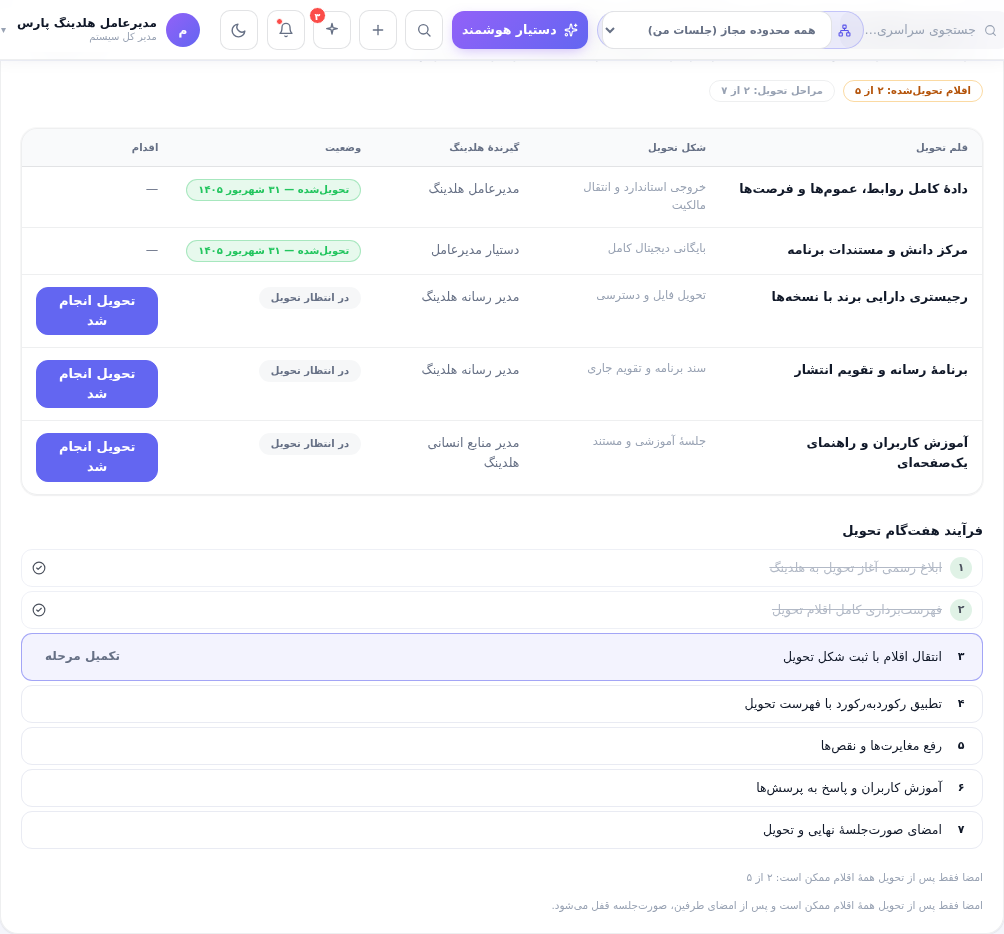
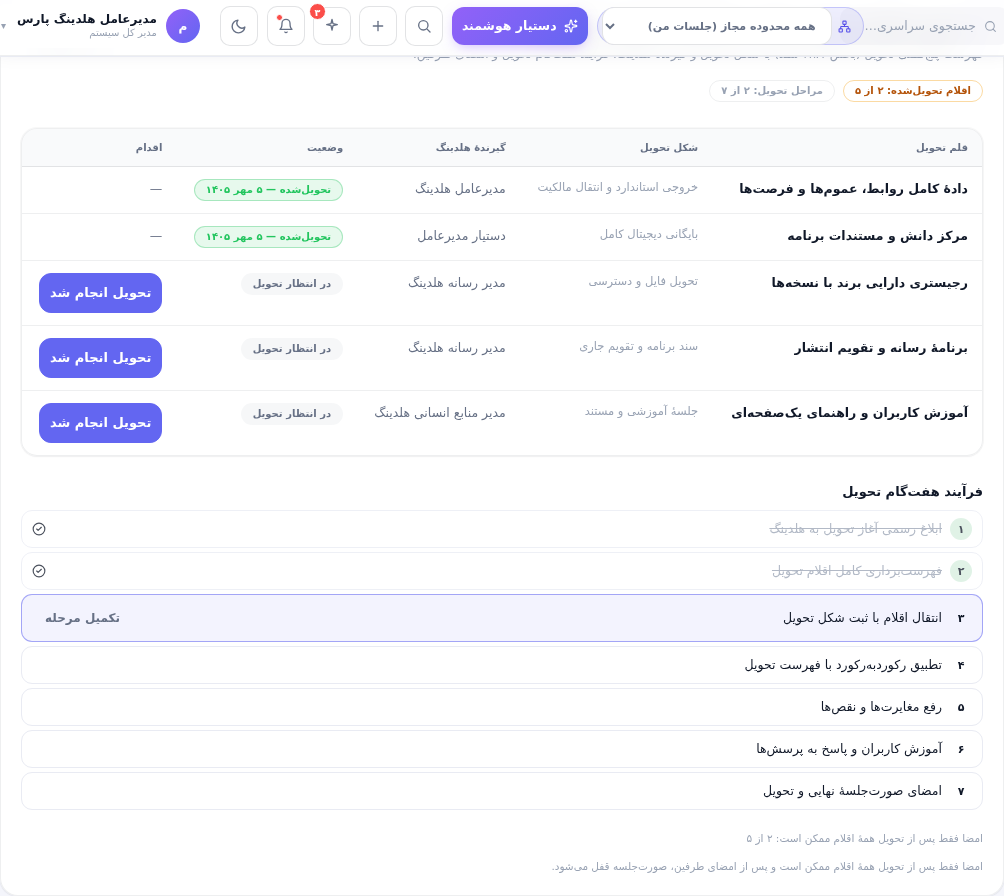
گام ۱۱.۱ — جار کامل فاز ۱۱: bump نسخهٔ 2026.10.05.01 + بازیابی محیط
- bump: DEMO_MOCK_VERSION → 2026.10.05.01 و بازسازی sw/docs
- api-tests: گارد دفاعی برای reconciliation در اجرای دوم روی DB جهشیافته
- preview-server: ۴۰۴ هوشمند مثل Pages/Plesk (سرو 404.html برای درخواستهای سند)
  + نگاشت /fonts/ به نسخهٔ اپ + پورت از PREVIEW_PORT
- مسترپلن: تیک ۱۱.۱

جار کامل روی بیلد تازه (۲۶ باتری، همه سبز):
api 877/0 · tsc 0 · i18n 17/0 · locale 7/0 · ui-consistency 12/0 ·
real-data 105/0 · program 65/0 · board 15/0 · partnerships 18/0 ·
ai-gateway 27/0 · ai-use-cards 6/0 · ai-model-cards 6/0 · ai-assist 6/0 ·
content-assistant 8/0 · authenticity-cases 5/0 · authenticity-risk 6/0 ·
document-provenance 7/0 · meeting-assistant 7/0 ·
dd-f02-f15 8/0 · tenders-gtm 8/0 · exec-role-cards 7/0 ·
capacity-env-research 9/0 · publics/market/strategy/intel ALL GREEN

(بازسازی sandbox وسط جار: fetch + reset --mixed + pnpm install +
e2e-browser-setup + بازسازی docs/srip2 — همهٔ باتریهای باقیمانده روی
محیط بازیابیشده دوباره اجرا و سبز شدند)

diff --git a/apps/web-ux/public/sw.js b/apps/web-ux/public/sw.js
@@ -1720,7 +1720,7 @@ const crypto = {
 const V1 = '/api/v1';
 /* نسخهٔ نمایشیِ Mock API — در هر انتشار باید عوض شود؛ چون داخل SW تزریق میشود و
    مرورگرها با آن، سرویسکارگرِ کهنه را تشخیص و خودکار بهروزرسانی میکنند. */
-const DEMO_MOCK_VERSION = '2026.10.04.01';
+const DEMO_MOCK_VERSION = '2026.10.05.01';
 
 /* ------------------------------ demo data ------------------------------ */
 let ORGS = [

diff --git a/docs/مسترپلن-v6-سامانه-هوشمند-SRIP.md b/docs/مسترپلن-v6-سامانه-هوشمند-SRIP.md
@@ -184,7 +184,7 @@ POST                   /ai/content/:id/draft     # پیشنویس محتوا 
 - [x] ۱۰.۴ F03 ممیزی ظرفیت و دارایی + F04 محیط/ذینفع/رقیب + F07 پژوهش و داوری — F03: گسترش ممیزی سهگانه به «فرد یا دارایی» (سطح بلوغ/دسترسی/وابستگی/شاهد/شکاف/ریسک/اقدام)؛ F04: ادغام عمومها+رقیب (نوع اطلاعات/نشانهٔ تغییر/منبع/اهمیت/موضع/قدرت/پیام/شواهد رقیب/سناریو/هشدار) + گردش F05؛ F07: پرسش/دامنه/روش/نمونه/منابع/محدودیت/تعارض/داور اول/داور دوم/اصلاحات/نسخه — حلقهٔ ۱۵.۳ (دو داور مستقل الزام انتشار).
 
 ### فاز ۱۱ — جار کامل، انتشار و بکاپ
-- [ ] ۱۱.۱ پایان فازها: جار کامل همهٔ باتریها (۱۹ باتری موجود + چکهای جدید AI/اصالت/فرمها) روی بیلد تازه → bump نسخه → بیلد → کامیت سورس → کامیت سایت → پوش → وبهوک Plesk → تأیید زنده → تگ بکاپ `backup/2026.10.xx-v10`.
+- [x] ۱۱.۱ پایان فازها: جار کامل همهٔ باتریها (۱۹ باتری موجود + چکهای جدید AI/اصالت/فرمها) روی بیلد تازه → bump نسخه → بیلد → کامیت سورس → کامیت سایت → پوش → وبهوک Plesk → تأیید زنده → تگ بکاپ `backup/2026.10.xx-v10`.
 
 ## ۷) ریسکهای اجرا و پاسخ
 
